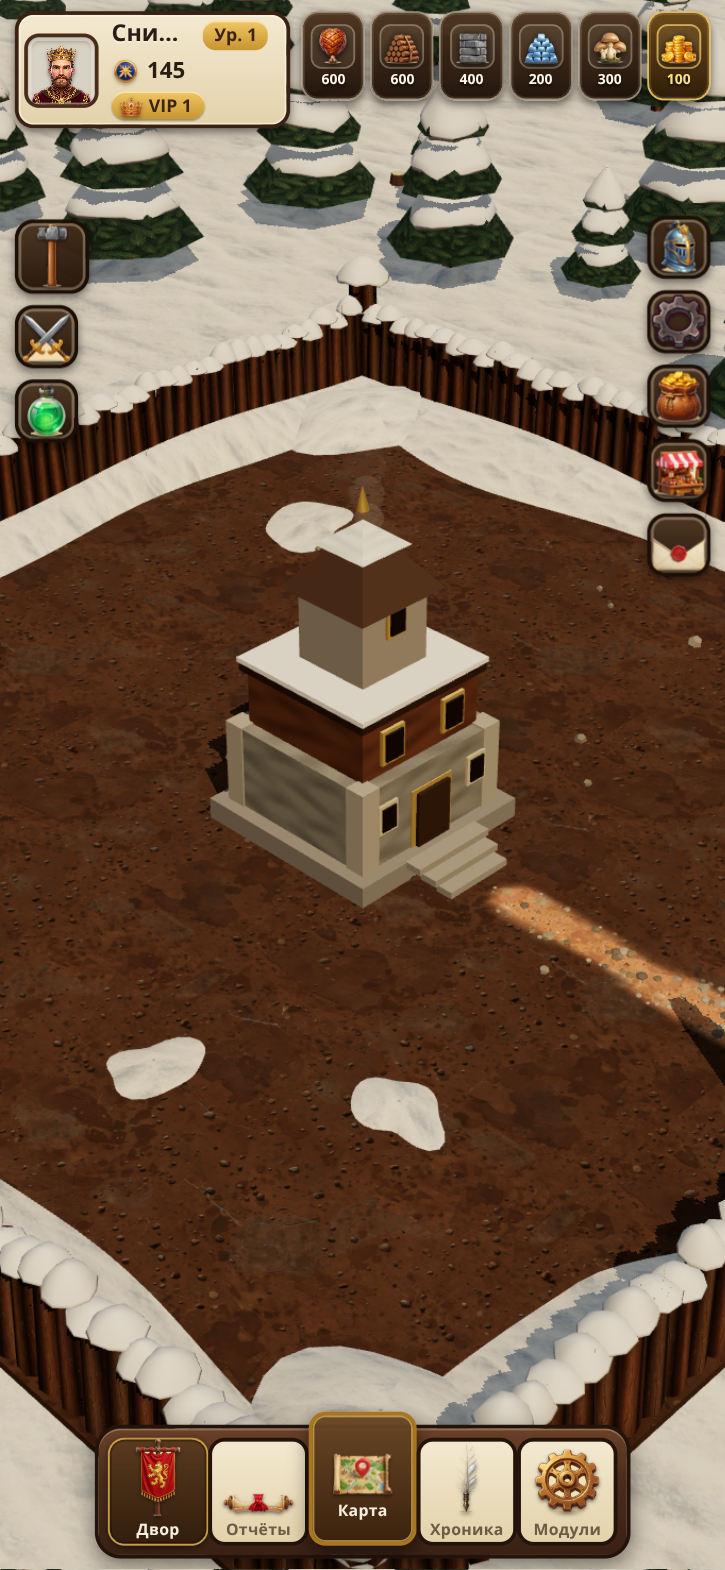
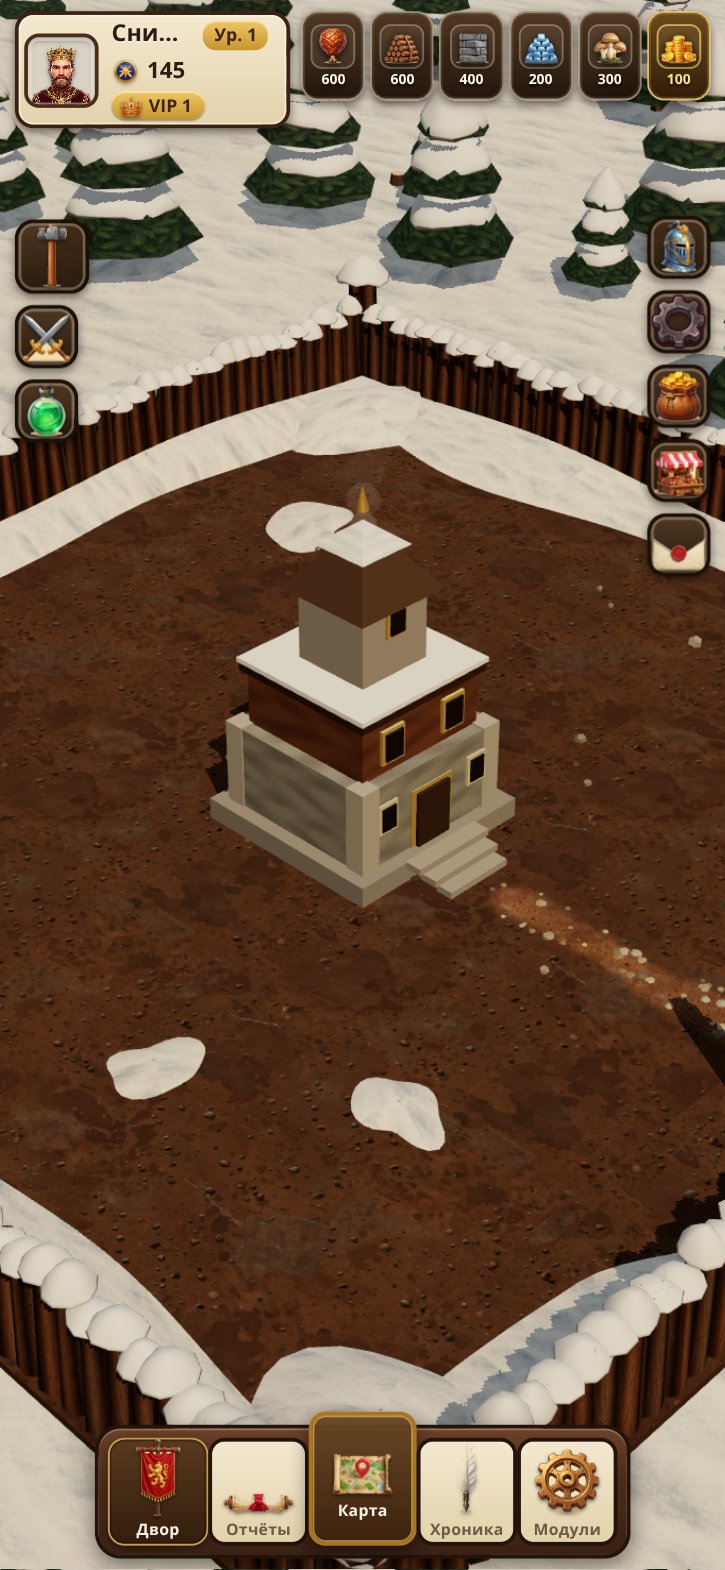
Двор: дорога к воротам одной ширины, тропа во дворе приглушена и пестрее

Changed region(s): [[0.6676, 0.5618, 1.0, 0.6866]]

diff --git a/apps/client/src/court/skin/boneWood/Road.tsx b/apps/client/src/court/skin/boneWood/Road.tsx
@@ -155,12 +155,8 @@ export function Road({ roads, size }: RoadProps) {
         if (n) path.push({ x0: c.cx, z0: c.cz, x1: n.cx, z1: n.cz, r0: PATH_R, r1: PATH_R });
       }
     }
-    // подъезд: от ворот прямо наружу, у ворот сужается до ширины тропы
-    const taperEnd = PLOT + 3.6;
-    const road: Prim[] = [
-      { x0: PLOT - 0.5, z0: 0, x1: taperEnd, z1: 0, r0: PATH_R, r1: ROAD_R },
-      { x0: taperEnd, z0: 0, x1: ROAD_END, z1: 0, r0: ROAD_R, r1: ROAD_R },
-    ];
+    // подъезд: от ворот прямо наружу, одной ширины по всей длине (по решению заказчика не сужается)
+    const road: Prim[] = [{ x0: PLOT - 0.2, z0: 0, x1: ROAD_END, z1: 0, r0: ROAD_R, r1: ROAD_R }];
     const all = [...path, ...road.filter((p) => p.x0 < PLOT + 1.2)];
 
     const gridMin = (v: number) => Math.floor(v / STEP) * STEP;
@@ -174,9 +170,11 @@ export function Road({ roads, size }: RoadProps) {
     const toneOut = new THREE.Color();
     const soil = (x: number, z: number, f: number, out: THREE.Color) => {
       groundTone(x, z, out);
-      // во дворе земля тёмная, тропе нужен контраст: светлее, чем за воротами, где вокруг снег
-      const boost = THREE.MathUtils.lerp(2.3, 1.2, smooth(PLOT, PLOT + 2.2, x));
-      out.multiplyScalar(boost * (0.55 + 0.45 * smooth(0, 1, f))); // у кромки темнее: грунт «врастает» в землю двора
+      // во дворе тропа мягче и пестрее: меньше яркости, пятна светлее и темнее (за воротами палитра как утверждена)
+      const inside = 1 - smooth(PLOT, PLOT + 2.2, x);
+      const patch = noise(x * 2.4 + 9, z * 2.4 - 5, 0.8) * 0.5 + 0.5;
+      const boost = THREE.MathUtils.lerp(1.2, 0.85 * (0.75 + 0.5 * patch), inside);
+      out.multiplyScalar(boost * (0.55 + 0.45 * smooth(0, 1, f))); // у кромки темнее: грунт «врастает» в землю
       return smooth(0, 0.6, f);
     };
 

diff --git a/docs/game/ui/concepts/phase-03-path/README.md b/docs/game/ui/concepts/phase-03-path/README.md
@@ -25,3 +25,8 @@
 - Тропа во дворе — узкая (≈ 0.55 клетки); крупные камни по бокам убраны, осталась только мелкая галька.
 - Реализация: `skin/boneWood/Road.tsx` — поле покрытия от «кисти» (клетки игрока + подъезд) → одна сетка с цветом и
   прозрачностью в вершинах. Колея и притоптанный снег по обочинам слабо заметны, при желании усилим.
+
+## Правка по замечаниям (01.10.2026, второй круг)
+- Дорога за воротами **не сужается**: одна ширина по всей длине, прямая; палитра, которую заказчик одобрил, не менялась.
+- Тропа во дворе приглушена и пестрее (пятна светлее и темнее), чтобы не выделяться на земле.
+- Правило работы: любые добавления «от себя» (сужение, колея, обочины и т. п.) сначала согласовываем с заказчиком.
